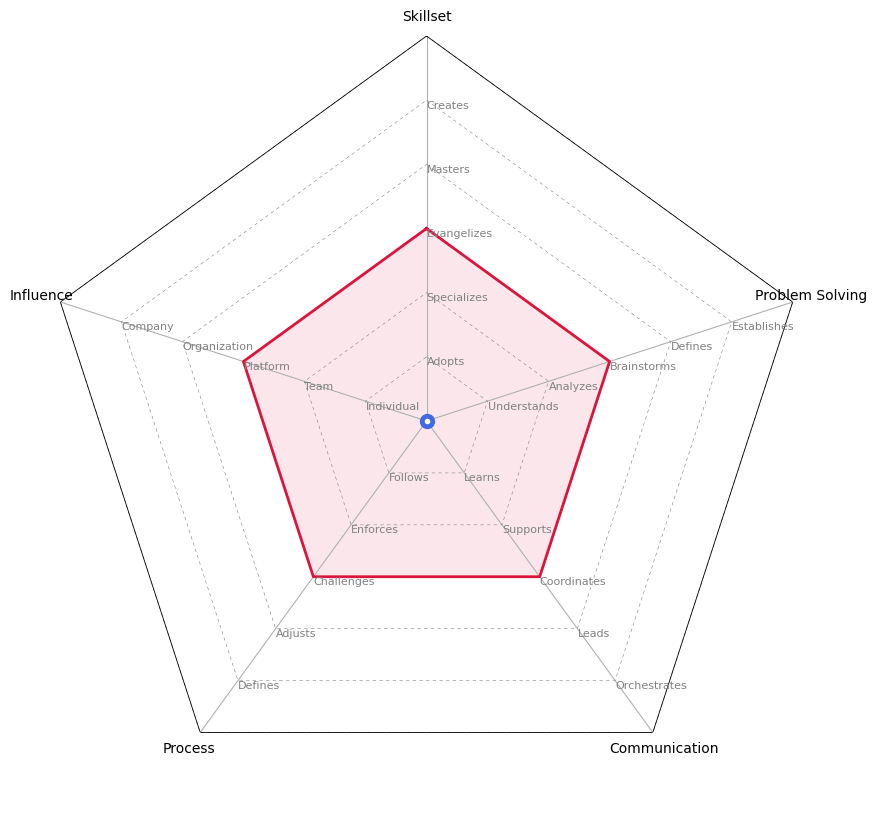
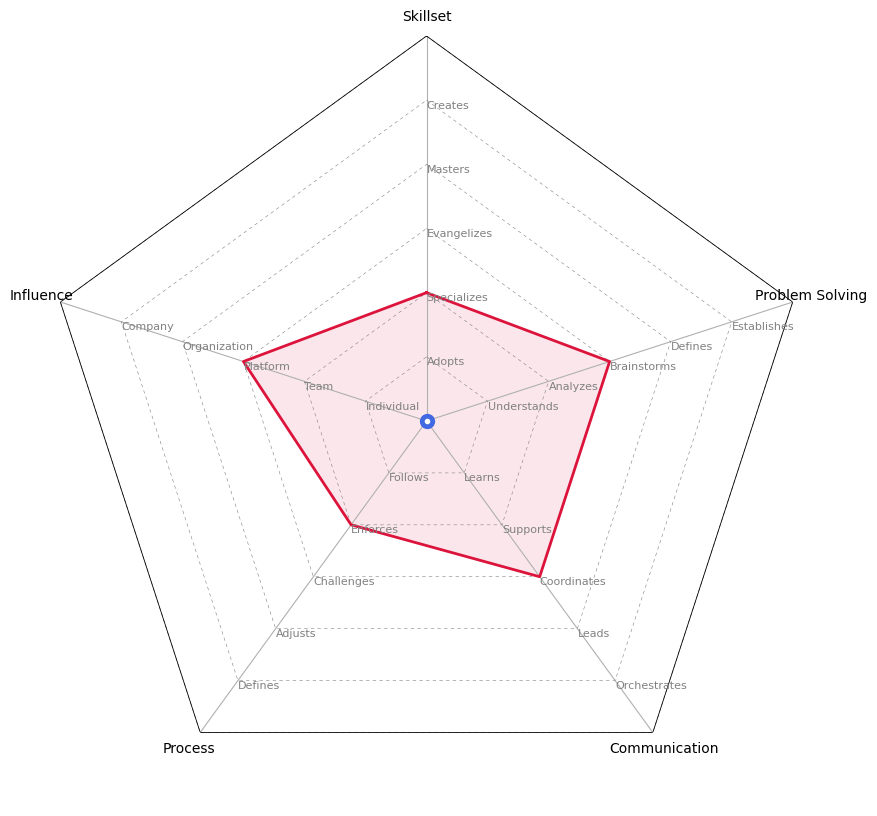
updated

diff --git a/product_manager/pm_main.py b/product_manager/pm_main.py
@@ -337,25 +337,25 @@ ds_level_stats = {
 
         },
         5: {
-            'Skillset': 3,
+            'Skillset': 2,
             'Problem Solving': 3,
             'Communication': 3,
-            'Process': 3,
+            'Process': 2,
             'Influence': 3
 
         },
         6: {
-            'Skillset': 4,
+            'Skillset': 3,
             'Problem Solving': 4,
-            'Communication': 5,
-            'Process': 4,
-            'Influence': 5
+            'Communication': 4,
+            'Process': 3,
+            'Influence': 4
         },
         7: {
-            'Skillset': 5,
+            'Skillset': 4,
             'Problem Solving': 5,
             'Communication': 5,
-            'Process': 5,
+            'Process': 4,
             'Influence': 5
         },
     },

diff --git a/product_manager/Product Manager 6.md b/product_manager/Product Manager 6.md
@@ -12,11 +12,13 @@
         
 ### Skillset
             
-#### Masters
+#### Evangelizes
 
-* 플랫폼 내에서 지식을 확장하여 복잡한 기술적 도전에 대처하기 위해 심층적인 지식과 통찰력을 제공하여 도움이 필요할 시 찾는 사람이 되어갑니다.
+* 팀 내에서 특정 분야의 전문가로 발전하여 제품의 방향성을 결정하는 데 중요한 역할을 합니다.
 
-* 제공하고, 플랫폼의 제품에서 혁신을 이끌어내기 위해 노력합니다.
+* 해당 분야에 대한 전문성을 보여주며 동료들에게 멘토십과 지원을 제공하여 함께 성장하도록 돕습니다.
+
+* 지식 공유 계획에 적극적으로 기여하여 팀 전체의 역량을 향상시킵니다.
         
 ### Problem Solving
             
@@ -28,29 +30,29 @@
         
 ### Communication
             
-#### Orchestrates
+#### Leads
 
-* 여러 도메인의 리더 및 C-레벨과 소통하며 그들의 요구를 이해하고 복잡성과 상충되는 목표를 해결합니다.
+* 기술적 문제를 동료들, 다부서 팀 및 회사 전체에 명확하게 설명할 수 있으며, 데이터와 분석을 통해 자세한 피드백과 해결책을 제공합니다.
 
-* 혁신적인 솔루션을 제안하고 다양한 이해관계자들 간에 합의를 이끌어내며 의사 결정에 영향을 미치고 조직의 성장을 촉진하기 위해 커뮤니케이션 기술을 활용합니다.
+* 여러 플랫폼의 이해관계자들과 소통하여 그들의 요구를 이해하고 복잡성과 상충되는 목표를 해결합니다.
 
 ### Process
             
-#### Adjusts
+#### Challenges
 
-* 조직의 목표를 실질적인 계획으로 전환하고, 경영진과 협력하여 목표를 정렬하고 전략적인 이니셔티브를 추진합니다.
+* 프로젝트를 마일스톤으로 구조화하고 이해관계자들과 협력하여 목표를 정의하고 진행 상황을 효과적으로 추적합니다.
 
-* 효율적인 프로세스와 워크플로우를 구현하여 프로젝트 실행을 최적화하고 팀 생산성을 극대화합니다.
+* 잠재적인 장애물을 예상하고 위험을 완화하기 위한 전략을 개발하여 프로젝트 실행을 원활하게 하고 결과물을 적시에 제공합니다.
 
 ### Influence
             
-#### Company
+#### Organization
 
-* 회사 전체에 영향을 줄 수 있는 중요한 제품을 출시하는 능력을 입증했습니다.
+* 조직 전체와 협업을 통해 의미 있는 제품을 출시할 수 있는 능력을 입증했습니다.
 
-* 회사 전체 수준에서 고객 경험에 영향을 주며, 전략적 목표를 달성하기 위한 혁명적인 변화를 주도하기 위해 비전 있는 리더십을 제공합니다.
+* 조직 내에서 고객 경험에 영향을 미치며, 대규모 이니셔티브를 주도하여 고객 중심의 혁신을 추진하여 가치를 전달합니다.
 
-* 제품 매니저 및 엔지니어링 매니저들에게 지도와 멘토십을 제공하여 우수성을 추구하고 조직의 성공을 이끌어냅니다.
+* 팀에게 전략적인 지도와 멘토십을 제공하여 조직의 방향을 형성하고 비즈니스 성장을 촉진합니다.
 
 #### [README](README.md)
 * [Product Manager 3](Product Manager 3.md)

diff --git a/product_manager/Product Manager 5.md b/product_manager/Product Manager 5.md
@@ -12,13 +12,11 @@
         
 ### Skillset
             
-#### Evangelizes
+#### Specializes
 
-* 팀 내에서 특정 분야의 전문가로 발전하여 제품의 방향성을 결정하는 데 중요한 역할을 합니다.
+* 새로운 기술과 그것을 배울 기회를 적극적으로 찾아나가며, 계속해서 전문성을 확장하여 진화하는 요구에 적응합니다.
 
-* 해당 분야에 대한 전문성을 보여주며 동료들에게 멘토십과 지원을 제공하여 함께 성장하도록 돕습니다.
-
-* 지식 공유 계획에 적극적으로 기여하여 팀 전체의 역량을 향상시킵니다.
+* 새로운 개념을 신속하게 이해하고, 그것들을 적용하여 생산성과 효율성을 향상시킵니다.
         
 ### Problem Solving
             
@@ -38,11 +36,11 @@
 
 ### Process
             
-#### Challenges
+#### Enforces
 
-* 프로젝트를 마일스톤으로 구조화하고 이해관계자들과 협력하여 목표를 정의하고 진행 상황을 효과적으로 추적합니다.
+* 업무를 효율적으로 분해하여 이해관계자와 협력하여 세부 요구 사항을 수집하고 효과적으로 우선 순위를 매깁니다.
 
-* 잠재적인 장애물을 예상하고 위험을 완화하기 위한 전략을 개발하여 프로젝트 실행을 원활하게 하고 결과물을 적시에 제공합니다.
+* 문제 해결에 있어서 창의성과 능동적인 태도를 나타내어 효율적으로 장애물을 극복하여 프로젝트 목표를 달성합니다.
 
 ### Influence
             

diff --git a/product_manager/Product Manager 7.md b/product_manager/Product Manager 7.md
@@ -12,13 +12,12 @@
         
 ### Skillset
             
-#### Creates
+#### Masters
 
-* 조직 전반에서 전문가로 인정받으며, 회사의 제품과 프로세스에 대한 포괄적인 지식을 보유합니다.
+* 플랫폼 내에서 지식을 확장하여 복잡한 기술적 도전에 대처하기 위해 심층적인 지식과 통찰력을 제공하여 도움이 필요할 시 찾는 사람이 되어갑니다.
 
-* 팀에 전략적인 지도와 멘토십을 제공하여 조직의 제품 방향을 구체화하고 규모에 맞춰 혁신을 주도합니다.
-
-
+* 제공하고, 플랫폼의 제품에서 혁신을 이끌어내기 위해 노력합니다.
+        
 ### Problem Solving
             
 #### Establishes
@@ -37,11 +36,11 @@
 
 ### Process
             
-#### Defines
+#### Adjusts
 
-* 조직의 효율성과 확장성을 최적화하기 위해 전략적 이니셔티브를 만들어내고 실행합니다. 자원과 우선순위를 장기적인 비즈니스 목표와 조율합니다.
+* 조직의 목표를 실질적인 계획으로 전환하고, 경영진과 협력하여 목표를 정렬하고 전략적인 이니셔티브를 추진합니다.
 
-* 지속적인 개선과 운영 우수성을 이끌기 위해 프레임워크와 모범 사례를 수립합니다. 조직이 변화무쌍한 환경에서 민첩하고 적응적으로 유지되도록 합니다.
+* 효율적인 프로세스와 워크플로우를 구현하여 프로젝트 실행을 최적화하고 팀 생산성을 극대화합니다.
 
 ### Influence
             
